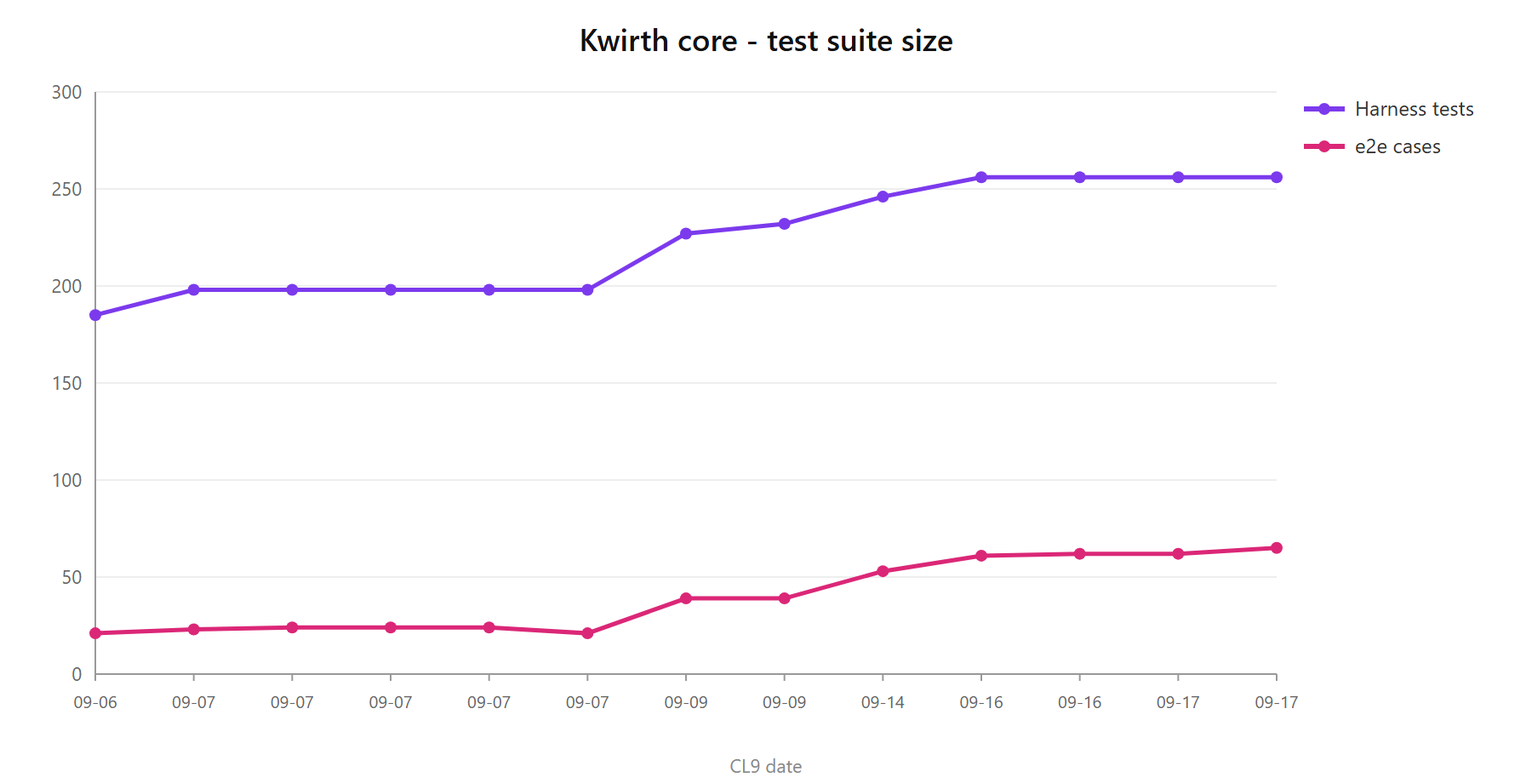
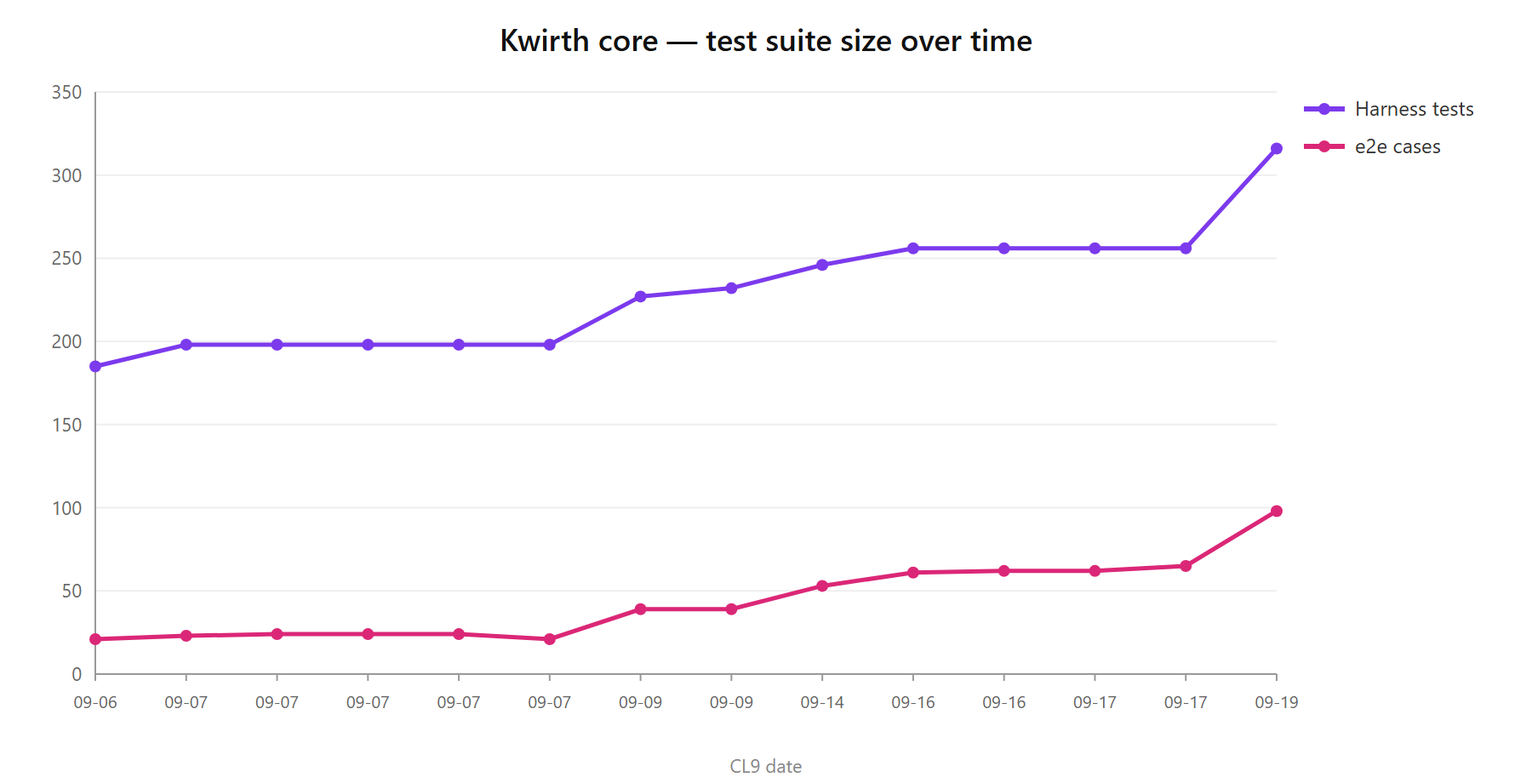
fix(aitoolsets): reinstalar un toolset ya no le quita la concesion
`install()` llama a `unregisterToolset()` para poder reemplazar, y ese se lleva la
concesion consigo. Al DESINSTALAR es lo correcto —si no, reinstalar resucitaria
permisos que nadie volvio a conceder—, pero al ACTUALIZAR revocaba en silencio: el
ConfigMap seguia diciendo a quien estaba concedido mientras el runtime respondia SIN
CONCEDER y el bot se quedaba sin una sola tool. En dev pasaba en cada arranque, porque
loadDevAiToolsets() lanza un IIFE async que index.ts no espera y termina despues de
applyGrants().

Lo repara install(), que es quien lo rompe: restoreGrants() repone desde lo persistido
tras re-registrar — solo lo ya guardado (instalar sigue sin conceder nada a nadie) y
solo si el toolset quedo registrado. Desinstalar sigue revocando. Asi el orden del
arranque deja de importar.

Tres tests fijan la regla entera y se han verificado en rojo con el fix desactivado.

Y pinocchio-toolsets.spec.ts, rojo desde que los toolsets se concedieron a otro plugin:
no era un bug, es que el selector sale de resolveTools(..., 'pinocchio') y el test daba
por hecho el estado del entorno. Ahora se concede lo que necesita y lo restaura.

diff --git a/front/e2e/tests/pinocchio-toolsets.spec.ts b/front/e2e/tests/pinocchio-toolsets.spec.ts
@@ -1,4 +1,4 @@
-import { test, expect, Page } from '@playwright/test'
+import { test, expect, Page, APIRequestContext } from '@playwright/test'
 import { login, dismissOpenDialogs, pickCombo, pickLastCombo } from './helpers'
 
 /*
@@ -6,29 +6,99 @@ import { login, dismissOpenDialogs, pickCombo, pickLastCombo } from './helpers'
     REGISTRO de toolsets instalados (plan: plans/ai-tools/PLAN.md, S3).
 
     El cambio no se ve: la misma lista de tools, con los mismos nombres. Por eso el test no comprueba
-    "que hay tools" —eso pasaba también antes— sino que la lista ES la de los toolsets instalados:
+    "que hay tools" —eso pasaba también antes— sino que la lista ES la de los toolsets que Pinocchio
+    tiene a su alcance:
 
-      · están las de los toolsets que SÍ están instalados (k8s-describe, k8s-observability…)
-      · NO está `delete_pod`, que vive en `k8s-ops` y no está instalado
-      · NO está `times_two`, que vive en `playground` y tampoco lo está
+      · están las de los toolsets concedidos a `pinocchio` (k8s-describe, k8s-observability)
+      · NO está `delete_pod`, que vive en `k8s-ops` y NO se le concede
+      · NO está `times_two`, que vive en `playground` y ni siquiera está instalado
 
     Con el camino viejo las tres aparecían siempre, porque venían todas del mismo sitio. Si alguna
     reaparece, es que se ha vuelto a colar el catálogo compilado.
 
-    NO destructivo: abre el canal, mira el selector y cancela. No guarda configuración.
+    ⚠ **La concesión se la da el propio test, y la devuelve como estaba.** La lista del selector sale de
+    `resolveTools(…, 'pinocchio')`, así que sin concesión llega VACÍA aunque los toolsets estén instalados
+    y todo funcione. La primera versión del test daba por hecho el estado del entorno, y el día que los
+    toolsets se concedieron a otro plugin —a `agora`— se puso rojo sin que nada se hubiera roto: el
+    síntoma era "0 tools" y el mensaje culpaba al registro, que estaba perfecto. Un test no puede depender
+    de cómo tenga configurado su dev quien lo corra.
+
+    NO destructivo: hace snapshot de las concesiones, concede lo justo, y restaura al terminar. Abre el
+    canal, mira el selector y cancela. No guarda configuración del canal.
 */
 
 test.describe.configure({ mode: 'serial' })
+
+/** Lo que el test necesita ver. `k8s-ops` queda FUERA a propósito: es la mitad negativa de la prueba. */
+const NECESARIOS = ['k8s-describe', 'k8s-observability']
+const PINOCCHIO = 'pinocchio'
+
+type TGrants = Record<string, string[]>
+
+/*
+    El front firma cada llamada al back con su accessString, y el test no tiene forma de fabricarse una:
+    se la toma prestada de la primera petición que salga hacia `/core/`. Registrar esto ANTES del login es
+    lo que lo hace fiable — la app empieza a llamar al back en cuanto entra.
+*/
+interface IBackAccess {
+    base: string
+    auth: string
+}
+
+const espiarAcceso = (page: Page): IBackAccess => {
+    const acceso: IBackAccess = { base: '', auth: '' }
+    page.on('request', req => {
+        if (acceso.auth) return
+        const auth = req.headers()['authorization']
+        const i = req.url().indexOf('/core/')
+        if (auth && i > 0) {
+            acceso.base = req.url().slice(0, i)
+            acceso.auth = auth
+        }
+    })
+    return acceso
+}
+
+const leerGrants = async (api: APIRequestContext, acc: IBackAccess): Promise<TGrants> => {
+    const res = await api.get(`${acc.base}/core/aitoolsets/grants`, { headers: { authorization: acc.auth } })
+    expect(res.ok(), `no se pudieron leer las concesiones (${res.status()})`).toBeTruthy()
+    return await res.json() as TGrants
+}
+
+const escribirGrant = async (api: APIRequestContext, acc: IBackAccess, toolsetId: string, plugins: string[]): Promise<void> => {
+    const res = await api.put(`${acc.base}/core/aitoolsets/grants/${toolsetId}`, {
+        headers: { authorization: acc.auth, 'content-type': 'application/json' },
+        data: { plugins }
+    })
+    // Conceder exige scope admin: si el usuario del e2e no lo tiene, mejor decirlo que dar 0 tools.
+    expect(res.ok(), `no se pudo conceder '${toolsetId}' (${res.status()}): ¿el usuario del e2e es admin?`).toBeTruthy()
+}
 
 test.describe('pinocchio: las tools salen del registro de toolsets', () => {
     let page: Page
     let herramientas: string[] = []
     let rotulo = ''
+    /** Lo que había antes de tocar nada, para dejarlo igual. */
+    let original: TGrants = {}
+    let tocados: string[] = []
+    /** La autorizacion prestada, capturada en el login y valida toda la sesion. */
+    let acceso: IBackAccess
 
     test.beforeAll(async ({ browser }) => {
         page = await browser.newPage()
+        acceso = espiarAcceso(page)
         await login(page)
         await dismissOpenDialogs(page)
+        expect(acceso.auth, 'no se pudo tomar prestada la autorizacion del front').not.toEqual('')
+
+        // ── la concesion, antes de abrir nada: el canal pide su lista de tools al arrancar ──
+        original = await leerGrants(page.request, acceso)
+        for (const id of NECESARIOS) {
+            const actuales = original[id] ?? []
+            if (actuales.includes(PINOCCHIO)) continue
+            await escribirGrant(page.request, acceso, id, [...actuales, PINOCCHIO])
+            tocados.push(id)
+        }
 
         await page.getByRole('button', { name: 'ADD', exact: true }).click({ force: true })
         await page.waitForTimeout(800)
@@ -70,30 +140,36 @@ test.describe('pinocchio: las tools salen del registro de toolsets', () => {
     })
 
     test.afterAll(async () => {
+        // Las concesiones vuelven EXACTAMENTE a como estaban, aunque el test haya petado a medias: son
+        // config del usuario, no del test.
+        for (const id of tocados) {
+            await escribirGrant(page.request, acceso, id, original[id] ?? []).catch(() => {})
+        }
         await dismissOpenDialogs(page).catch(() => {})
         await page?.close()
     })
 
     test('el catalogo que ofrece no esta vacio', async () => {
-        // Si el registro estuviera vacio, pinocchio se quedaria sin tools — que es exactamente el sintoma
-        // de "un plugin sin toolsets no tiene tools", y hay que distinguirlo de un fallo al pintar.
-        expect(herramientas.length, 'no hay ninguna tool disponible: ¿no hay toolsets instalados?').toBeGreaterThan(0)
+        // Dos causas distintas para el mismo sintoma, y el mensaje tiene que distinguirlas: sin registro no
+        // hay tools, y con registro pero sin concesion tampoco — pero se arreglan en sitios diferentes.
+        expect(herramientas.length, `no hay ninguna tool disponible: los toolsets ${NECESARIOS.join(', ')} estan instalados pero ¿llego la concesion a '${PINOCCHIO}'?`).toBeGreaterThan(0)
         // Y el rotulo del selector existe (vacio si no hay ninguna marcada, 'all (N)' con autoTools)
         expect(typeof rotulo).toBe('string')
     })
 
-    test('las tools que ofrece son las de los toolsets INSTALADOS', async () => {
+    test('las tools que ofrece son las de los toolsets CONCEDIDOS', async () => {
         const texto = herramientas.join(' ')
-        // De k8s-describe y de k8s-observability, los dos instalados en este entorno
+        // De k8s-describe y de k8s-observability, los dos que el test se concede
         expect(texto, 'falta describe_pod (k8s-describe)').toContain('describe_pod')
         expect(texto, 'falta get_pod_logs (k8s-observability)').toContain('get_pod_logs')
     })
 
-    test('NO ofrece las de los toolsets que no estan instalados', async () => {
-        // delete_pod es de k8s-ops (privado, escritura) y times_two de playground. Con el camino viejo
-        // salían las dos, porque venían compiladas dentro del core junto a las demás.
+    test('NO ofrece las de los toolsets que no estan a su alcance', async () => {
+        // `delete_pod` es de k8s-ops (escritura): puede estar INSTALADO, pero el test no se lo concede, y
+        // la resolucion filtra por concesion. `times_two` es de playground, que ni siquiera esta instalado.
+        // Con el camino viejo salian las dos, porque venian compiladas dentro del core junto a las demas.
         const texto = herramientas.join(' ')
-        expect(texto, 'delete_pod no deberia estar: k8s-ops no esta instalado').not.toContain('delete_pod')
+        expect(texto, 'delete_pod no deberia estar: k8s-ops no esta concedido a pinocchio').not.toContain('delete_pod')
         expect(texto, 'times_two no deberia estar: playground no esta instalado').not.toContain('times_two')
     })
 })

diff --git a/back/tests/tools/aiToolsetManager.test.ts b/back/tests/tools/aiToolsetManager.test.ts
@@ -2,7 +2,7 @@ import { test } from 'node:test'
 import assert from 'node:assert/strict'
 import { AiToolsetManager, staleDevAiToolsets, IAiToolsetMeta } from '../../src/tools/AiToolsetManager'
 import { IConfigMaps } from '../../src/tools/IConfigMap'
-import { registerToolset, getToolset, listToolsets } from '@kwirthmagnify/kwirth-common-ai/back'
+import { registerToolset, getToolset, listToolsets, isToolsetGrantedTo, getToolsetGrants } from '@kwirthmagnify/kwirth-common-ai/back'
 import { EToolEffect, EToolSensitivity, ECapability } from '@kwirthmagnify/kwirth-common-ai'
 import tar from 'tar'
 import os from 'os'
@@ -155,6 +155,61 @@ test('reinstalar encima reemplaza en vez de chocar con el registro', async () =>
     assert.equal(after, 1)   // reemplaza, no duplica ni revienta
 
     await mgr.uninstall('test-reinstall')
+    fs.rmSync(tgz, { force: true })
+})
+
+// ── concesiones ──────────────────────────────────────────────────────────────────────────────────────
+
+test('instalar por primera vez no concede el toolset a nadie', async () => {
+    // Instalar deja DISPONIBLE, no concedido: instalar `k8s-ops` no puede dar escritura por accidente.
+    const mgr = new AiToolsetManager(fakeConfigMaps())
+    await mgr.init()
+    const tgz = await makeToolsetTgz('test-nogrants')
+    await mgr.install(tgz, 'local')
+
+    assert.deepEqual(getToolsetGrants('test-nogrants'), [])
+
+    await mgr.uninstall('test-nogrants')
+    fs.rmSync(tgz, { force: true })
+})
+
+test('reinstalar NO revoca la concesion que el admin ya dio', async () => {
+    // Reinstalar pasa por `unregisterToolset` para poder reemplazar, y ese se lleva la concesion con el
+    // toolset. Sin reponerla, actualizar un toolset —o releer el dist de un dev en cada arranque— la
+    // revocaba en silencio, y las dos mitades se contradecian: la tarjeta seguia diciendo a quien estaba
+    // concedido (lo persistido, que instalar no toca) mientras el runtime respondia SIN CONCEDER.
+    const mgr = new AiToolsetManager(fakeConfigMaps())
+    await mgr.init()
+
+    const tgz = await makeToolsetTgz('test-grants')
+    await mgr.install(tgz, 'dev')
+    await mgr.setGrants('test-grants', ['agora'])
+
+    await mgr.install(tgz, 'dev')   // el rebuild de un dev, o una version nueva del marketplace
+
+    assert.equal(isToolsetGrantedTo('test-grants', 'agora'), true, 'la concesion no sobrevivio a la reinstalacion')
+    assert.deepEqual(getToolsetGrants('test-grants'), ['agora'])
+    // y el registro en memoria y lo guardado dicen lo mismo, que es justo lo que se rompia
+    assert.deepEqual((await mgr.listGrants())['test-grants'], ['agora'])
+
+    await mgr.uninstall('test-grants')
+    fs.rmSync(tgz, { force: true })
+})
+
+test('desinstalar SI se lleva la concesion, y tambien la guardada', async () => {
+    // La otra mitad de la regla: reinstalar conserva, desinstalar revoca. Dejarla huerfana haria que
+    // reinstalar resucitara permisos que nadie ha vuelto a conceder.
+    const mgr = new AiToolsetManager(fakeConfigMaps())
+    await mgr.init()
+
+    const tgz = await makeToolsetTgz('test-grants-gone')
+    await mgr.install(tgz, 'local')
+    await mgr.setGrants('test-grants-gone', ['agora'])
+    await mgr.uninstall('test-grants-gone')
+
+    assert.equal(isToolsetGrantedTo('test-grants-gone', 'agora'), false)
+    assert.equal((await mgr.listGrants())['test-grants-gone'], undefined)
+
     fs.rmSync(tgz, { force: true })
 })
 

diff --git a/back/src/tools/AiToolsetManager.ts b/back/src/tools/AiToolsetManager.ts
@@ -98,6 +98,22 @@ export class AiToolsetManager {
         logInfo(ELogComponent.CORE, `AI toolset grants applied: ${Object.keys(grants).length} toolset(s), ${total} grant(s)`)
     }
 
+    /**
+     * Devuelve al registro la concesion que `unregisterToolset` se lleva por delante al REEMPLAZAR un
+     * toolset. Lo persistido es la verdad: la instalacion no toca el ConfigMap de concesiones.
+     *
+     * Solo repone lo que YA estaba guardado —instalar sigue sin conceder nada a nadie— y solo si el
+     * toolset quedo registrado: un id que no llego a registrarse (el paquete y el modulo dicen ids
+     * distintos) no debe dejar una concesion huerfana detras.
+     */
+    private async restoreGrants(toolsetId: string): Promise<void> {
+        if (!getToolset(toolsetId)) return
+        const plugins = (await this.listGrants())[toolsetId]
+        if (!plugins?.length) return
+        setToolsetGrants(toolsetId, plugins)
+        logInfo(ELogComponent.CORE, `AI toolset '${toolsetId}' grants restored after reinstall: ${plugins.join(', ')}`)
+    }
+
     /** Concede un toolset a una lista de plugins (reemplaza la anterior) y lo persiste. */
     async setGrants(toolsetId: string, pluginIds: string[]): Promise<string[]> {
         if (!getToolset(toolsetId)) throw new Error(`AI toolset '${toolsetId}' is not registered`)
@@ -276,6 +292,13 @@ export class AiToolsetManager {
             // chocar: registerToolset revienta si el id esta ocupado, asi que se retira primero.
             unregisterToolset(meta.id)
             this.loadBackToolset(meta.id, backJs)
+            // ⚠ `unregisterToolset` se lleva la concesion con el toolset, y al DESINSTALAR eso es lo
+            // correcto. Reinstalar no: actualizar un toolset —o releer el dist de un dev en cada arranque—
+            // no puede revocarle en silencio a los plugins lo que el admin les dio. El sintoma sin esto es
+            // de los caros, porque las dos mitades se contradicen: la tarjeta sigue enseñando a quien esta
+            // concedido (vive en el ConfigMap, que instalar no toca) mientras el runtime responde SIN
+            // CONCEDER y el bot se queda sin tools hasta el siguiente arranque.
+            await this.restoreGrants(meta.id)
 
             logInfo(ELogComponent.CORE, `AI toolset '${meta.id}' v${meta.version} installed`)
             return meta

diff --git a/docs/qa/test-metrics-history.md b/docs/qa/test-metrics-history.md
@@ -38,6 +38,7 @@
 
 | Fecha | Cierre | Harness | Cobertura (líneas / ramas / funcs) | e2e | Notas |
 |---|---|---|---|---|---|
+| 2026-09-19 | La concesión de un toolset sobrevive a reinstalarlo | **316** ✅ | 49.97 % / 74.27 % / 48.03 % | 26 specs · 98 casos · **12 corridos ✅** (`aitoolsets-manager` 9/9 + `pinocchio-toolsets` 3/3) | Salió en el QA de `source-repos@0.2.0`: la tarjeta del gestor decía *concedido a `agora`* mientras el runtime respondía `SIN CONCEDER [los siete toolsets]` y el bot se quedaba **sin ninguna tool**. Las dos mitades no mentían, miraban sitios distintos: la concesión **persistida** vive en el ConfigMap `kwirth-aitoolsets-grants` —que la instalación no toca— y la **efectiva** en un Map en memoria del registro. `install()` llama a `unregisterToolset()` para poder reemplazar, y ese **se lleva la concesión consigo** (correcto al DESINSTALAR: si no, reinstalar resucitaría permisos que nadie volvió a conceder). Resultado: **actualizar un toolset lo revocaba en silencio**, y en dev pasaba en CADA arranque, porque `loadDevAiToolsets()` lanza un IIFE async que el `index.ts` no espera y termina **después** de `applyGrants()`, borrando lo que este acababa de aplicar. **Fix:** `install()` repara lo que rompe — `restoreGrants()` repone desde lo persistido tras re-registrar, solo lo que ya estaba guardado (instalar sigue sin conceder nada a nadie) y solo si el toolset quedó registrado (un id que no llega a registrarse no debe dejar concesiones huérfanas). Con eso la carrera del arranque deja de importar, sin tocar el orden de `index.ts`. **3 tests nuevos** que fijan la regla entera —instalar no concede · reinstalar conserva · desinstalar revoca, también lo guardado—, verificados en rojo con el fix desactivado (315/1). ⚠ **Y de paso se arregló `pinocchio-toolsets.spec.ts`, que llevaba rojo y NO por un bug**: la lista del selector sale de `resolveTools(…, 'pinocchio')`, así que sin concesión llega vacía aunque todo funcione; el día que los toolsets se concedieron a `agora` el test se puso rojo culpando al registro (*"¿no hay toolsets instalados?"*), que estaba perfecto. Ahora **el test se concede lo que necesita y lo restaura** (snapshot del mapa de grants por la API `/core/aitoolsets/grants`, tomando prestada del front la autorización de la primera petición que sale hacia `/core/`), y su mensaje distingue *no instalado* de *no concedido*. Comprobado que el ConfigMap queda exactamente como estaba. De 1,9 min con reintentos a 45 s en verde. |
 | 2026-09-17 | S3: las 43 empaquetadas, y pinocchio resolviendo por el registro | **256** ✅ | 48.58 % / 74.17 % / 47.01 % | 17 specs · 65 casos · **64 ✅, 1 saltado** | `common-ai@0.5.56/57/58`. Las 43 tools dejan de vivir compiladas dentro del core y pasan a **ocho paquetes** `aitoolset` (98 casos de harness propios, ver `aitoolsets/docs/qa/`). **Pinocchio es el primer cliente**: `toolInfoList`, el catalogo `tools` y los cuatro lambdas de traza mueren en su back, y en su sitio quedan `buildAgentTools` + el gancho `observe`. Se nota en la UI: su selector pasa de ofrecer 43 tools —todas, siempre— a ofrecer **solo las de los toolsets instalados**, y eso es lo que fija el e2e nuevo: `describe_pod` si, `delete_pod` (de `k8s-ops`, no instalado) y `times_two` (de `playground`) no. `defineTool` se añade al contrato para que cada tool infiera sus argumentos DESDE su esquema: sin eso, 30 tools portadas serian 30 sitios con `String(args.namespace)` donde el compilador no ayuda. ⚠ **Las 43 originales NO se han borrado y quedan CONGELADAS** hasta que el resto de plugins esten cableados — un arreglo va solo al paquete. ⚠ **Gotcha caro**: un toolset construido contra un `common-ai` mas nuevo que el que SIRVE el core no carga (`defineTool is not a function`), y el sintoma es una tarjeta instalada sin contador de tools. ⚠ `aitoolsets-manager.spec.ts` se puso rojo por un defecto MIO: daba por hecho que el toolset instalado era `playground`. Reescrito para no nombrar ninguno: comprueba el comportamiento del gestor con lo que haya. |
 | 2026-09-17 | S2: la cadena de resolución, con precedencia entre toolsets | **256** ✅ | 48.58 % / 74.17 % / 47.01 % | 16 specs · 62 casos · **61 ✅, 1 saltado** | `common-ai@0.5.55`. De *"estos toolsets, en este orden"* a *"estas tools, listas para el LLM"*: `resolveTools` (pura, para que el editor pueda **pintar exactamente lo que se va a ejecutar**) y `buildAgentTools`, el camino único de invocación con sus dos ganchos —**autorizar** antes y **observar** después—, permisivos hasta S4 y S6. **Los choques de nombre se resuelven por PRECEDENCIA, no renombrando** (decisión del usuario): manda el orden de `activeToolsets`, y apagar una tool **no mata el nombre, deja aflorar la del siguiente** — se apaga una referencia (`ts1/td`), no un nombre. El motivo de no cualificar de cara al modelo es duro: los proveedores exigen `^[a-zA-Z0-9_-]{1,64}$`, así que una barra no pasa, y renombrar las 43 cambiaría el comportamiento de agentes cuyos prompts las nombran. 14 casos nuevos fijan la semántica **antes** de que se persista en configuraciones de clientes, incluido el ejemplo literal que planteo el usuario. Un toolset asignado que no esté instalado se **reporta** (`missing`) en vez de ignorarse: si no, el síntoma sería “el agente responde peor” sin pista. `buildAgentTools` envuelve la ejecución en `runWithToolContext`, y eso es lo que permitirá migrar los ocho paquetes de S3 **de uno en uno** en vez de reescribir las 43 antes de poder usar el camino nuevo (hay un test que lo fija con una tool vieja de verdad). ⚠ **Sin e2e**: S2 no pinta nada — su cliente es pinocchio, y eso es S3. Validado contra los toolsets de S1 y el cluster de dev con `verify.mjs`, que ahora también ejercita precedencia, tapado, denegación y observación. |
 | 2026-09-16 | Capabilities: lo que el host le presta a una tool (S1, cierre) | **256** ✅ | 48.58 % / 74.17 % / 47.01 % | 16 specs · 62 casos · **61 ✅, 1 saltado** | `common-ai@0.5.54`. El segundo toolset de validacion, **`k8s-inventory`** (8 tools de inventario, publicado), destapo lo que el primero no podia ver: un `aitoolset` empaquetado **no tenia forma de llegar al cluster**. Las 43 tools de hoy leen un `AsyncLocalStorage` privado de `common-ai` y su accesor **no se exporta** — exportarlo habria repartido el saco entero (`saToken`, `token`, `senders`, `webhooks`, `dockerApi`, ~20 clientes de API) a cualquier paquete de terceros. El contrato pasa a `execute(args, host)`, con `buildToolHost(requires, context)` provisionando **solo lo declarado**: `IK8sCapability` presta 3 clientes de Kubernetes, la identidad del cluster y el mapa de nodos, y nada mas. Los tipos de `@kubernetes/client-node` entran **solo como tipos** (peer opcional), asi que no arrastran el SDK (~6,6 MB) a ningun bundle. Validado: la fachada fue **suficiente** para las 8 tools, y las 8 respondieron contra el cluster de dev (`verify.mjs`). 5 casos nuevos en el harness de `common-ai` (19→24) fijan el reparto, incluida la comprobacion de que la fachada **no deja pasar credenciales**. 13 casos nuevos en el harness propio del toolset. En e2e, el caso que quedo **anotado como pendiente** en el CL9 anterior —la alineacion de columnas de la vista de lista, que con un solo toolset no se puede comprobar— ya es un test de verdad: mide la X de la celda de version de cada fila del catalogo. ⚠ Las 43 originales **no se han tocado**: los toolsets nuevos llevan copias propias y el camino viejo muere en S3. ⚠ Sin endpoint de invocacion en el core, a proposito: autorizar al invocar es S4, y abrir un `POST /tools/:name` con solo `validKey` antes de eso dejaria ejecutar tools `write` sin techo. |

diff --git a/plans/ai-tools/PLAN.md b/plans/ai-tools/PLAN.md
@@ -1,6 +1,6 @@
 # Sistema de tools de IA — Plan
 
-> **ESTADO — VIVO** (última entrada: 2026-09-18). Hecho: S1–S3, el tipo de extensión `aitoolset`, las 43
+> **ESTADO — VIVO** (última entrada: 2026-09-19). Hecho: S1–S3, el tipo de extensión `aitoolset`, las 43
 > tools repartidas en ocho paquetes y **Agora migrado** al runtime de toolsets (`plugin/agora@0.1.55`,
 > QA validado 7/7). Pendiente: **S4–S7** y **retirar las 43 tools viejas** de `common-ai`, que siguen ahí
 > como red de seguridad.
@@ -705,3 +705,43 @@ modelo; instrumentarlo (`finishReason`, pasos consumidos, `toolCalls`) está en 
 
 **Sigue pendiente el paso 2**: el borrado de las 43 viejas, en commit aparte, ahora ya con Agora validado en
 uso real.
+
+## La concesión se perdía al reinstalar un toolset (2026-09-19)
+
+Salió en el QA de `compare_revisions` (`source-repos@0.2.0`), y es un fallo de **este** plan: nace de la
+Fase 1 del techo, donde se decidió que la concesión viviera en el registro y no en la llamada.
+
+El síntoma era contradictorio, que es lo que lo hizo caro de leer: la tarjeta del gestor decía *concedido
+a `agora`* y el runtime, a la vez, `SIN CONCEDER [los siete]`, con el bot sin una sola tool. Ninguna de las
+dos mentía — **miraban sitios distintos**:
+
+| | dónde vive | quién la escribe |
+|---|---|---|
+| concesión **persistida** | ConfigMap `kwirth-aitoolsets-grants` | `setGrants` (y `uninstall`, que la borra) |
+| concesión **efectiva** | un `Map` en memoria del registro de `common-ai` | `setToolsetGrants`, desde `setGrants` y `applyGrants` |
+
+Y en medio, `unregisterToolset()`, que **se lleva la concesión consigo**. Eso es lo correcto al
+DESINSTALAR —si no, reinstalar resucitaría permisos que nadie volvió a conceder—, pero `install()` lo
+llama también para poder **reemplazar** un toolset ya registrado. Consecuencia: **actualizar un toolset lo
+revocaba en silencio**, sin tocar lo persistido. En dev pasaba en CADA arranque, porque
+`loadDevAiToolsets()` lanza un IIFE `async` que `index.ts` no espera y termina **después** de
+`applyGrants()`, borrando justo lo que este acababa de aplicar.
+
+**Arreglado en `install()`, que es quien rompe**: `restoreGrants()` repone desde lo persistido tras
+re-registrar. Se descartó la alternativa de esperar a `loadDevAiToolsets()` en el arranque: cerraba la
+carrera de dev pero dejaba vivo el caso de actualizar desde el marketplace, que es el que le toca al
+usuario final. Con la reparación en `install()`, el orden del arranque deja de importar.
+
+Tres cautelas, todas con test: solo repone **lo ya guardado** (instalar sigue sin conceder nada a nadie,
+decisión del 2026-09-17), solo si el toolset **quedó registrado** (un id que no llega a registrarse no
+debe dejar concesiones huérfanas), y **desinstalar sigue revocando**. Verificados en rojo desactivando el
+fix. Documentado en la guía del core (`docs/0.6.31/…/aitoolsets/index.md`), que ya explicaba conceder y
+revocar pero no decía qué pasa al **actualizar**.
+
+**De paso, `pinocchio-toolsets.spec.ts` llevaba rojo y no por un bug.** El selector sale de
+`resolveTools(…, 'pinocchio')`, así que sin concesión llega vacío aunque todo funcione; el día que los
+toolsets se concedieron a `agora`, el test se puso rojo **culpando al registro** (*"¿no hay toolsets
+instalados?"*), que estaba perfecto. Un e2e no puede depender de cómo tenga configurado su dev quien lo
+corre: ahora **se concede lo que necesita y lo restaura** (snapshot del mapa por la API, tomándole
+prestada al front la autorización de su primera petición a `/core/`), y su mensaje distingue *no
+instalado* de *no concedido*.

diff --git a/docs/0.6.31/guide/extensions/aitoolsets/index.md b/docs/0.6.31/guide/extensions/aitoolsets/index.md
@@ -121,7 +121,7 @@ the fact rather than failing silently.
 > to answer in seconds, and here you answer it by looking at **who has been granted `k8s-ops`** — one line,
 > one dialog. That is why the grants are held per toolset and not scattered across each channel's settings.
 
-Two consequences worth knowing before you grant:
+Three consequences worth knowing before you grant:
 
 - **A freshly installed AI channel has no tools.** It can reason and write prose, but it cannot see your
   cluster until someone grants it a toolset. This is deliberate — capability is given, never assumed — but it
@@ -129,6 +129,10 @@ Two consequences worth knowing before you grant:
   upgrade is usually a plugin whose grants nobody has set.
 - **Revoking is immediate and needs no restart.** Take the grant away and the next bot run is offered fewer
   tools. Nothing is cached behind your back.
+- **Updating a toolset keeps its grants; uninstalling clears them.** Installing a newer version of a toolset
+  —or rebuilding one you are developing— leaves untouched who may use it: the grant belongs to the toolset
+  *id*, not to the version you happened to install. Uninstalling is the opposite and does clear it, so that
+  installing something again later never resurrects permissions nobody re-granted.
 
 ## Where tools are switched on
 
